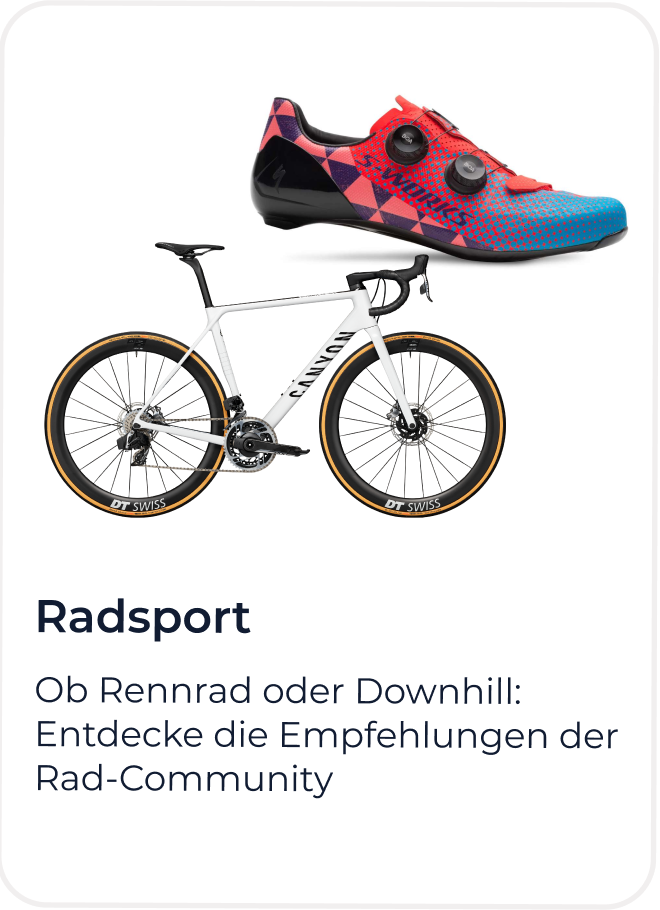
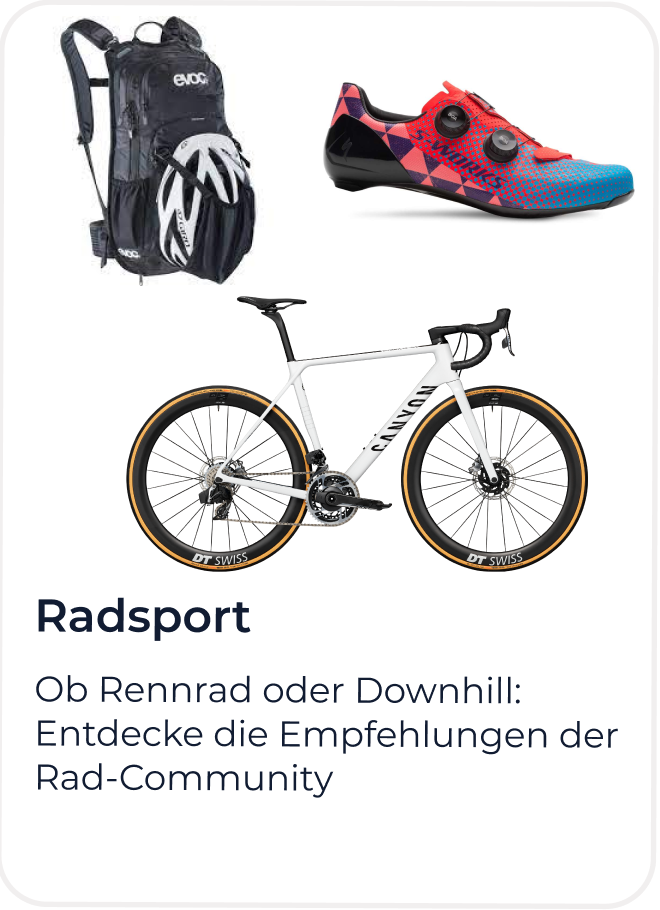
Updated category cards and deleted Heimtraining card

diff --git a/src/Lane.js b/src/Lane.js
@@ -34,9 +34,6 @@ function Lane() {
             <img className="slide" src={cardFitness} alt="Fitness" />
       </SwiperSlide>
       <SwiperSlide>
-            <img className="slide" src={cardHeimtraining} alt="Heimtraining" />
-      </SwiperSlide>
-      <SwiperSlide>
             <img className="slide" src={cardLaufen} alt="Laufen" />
       </SwiperSlide>
       <SwiperSlide>
